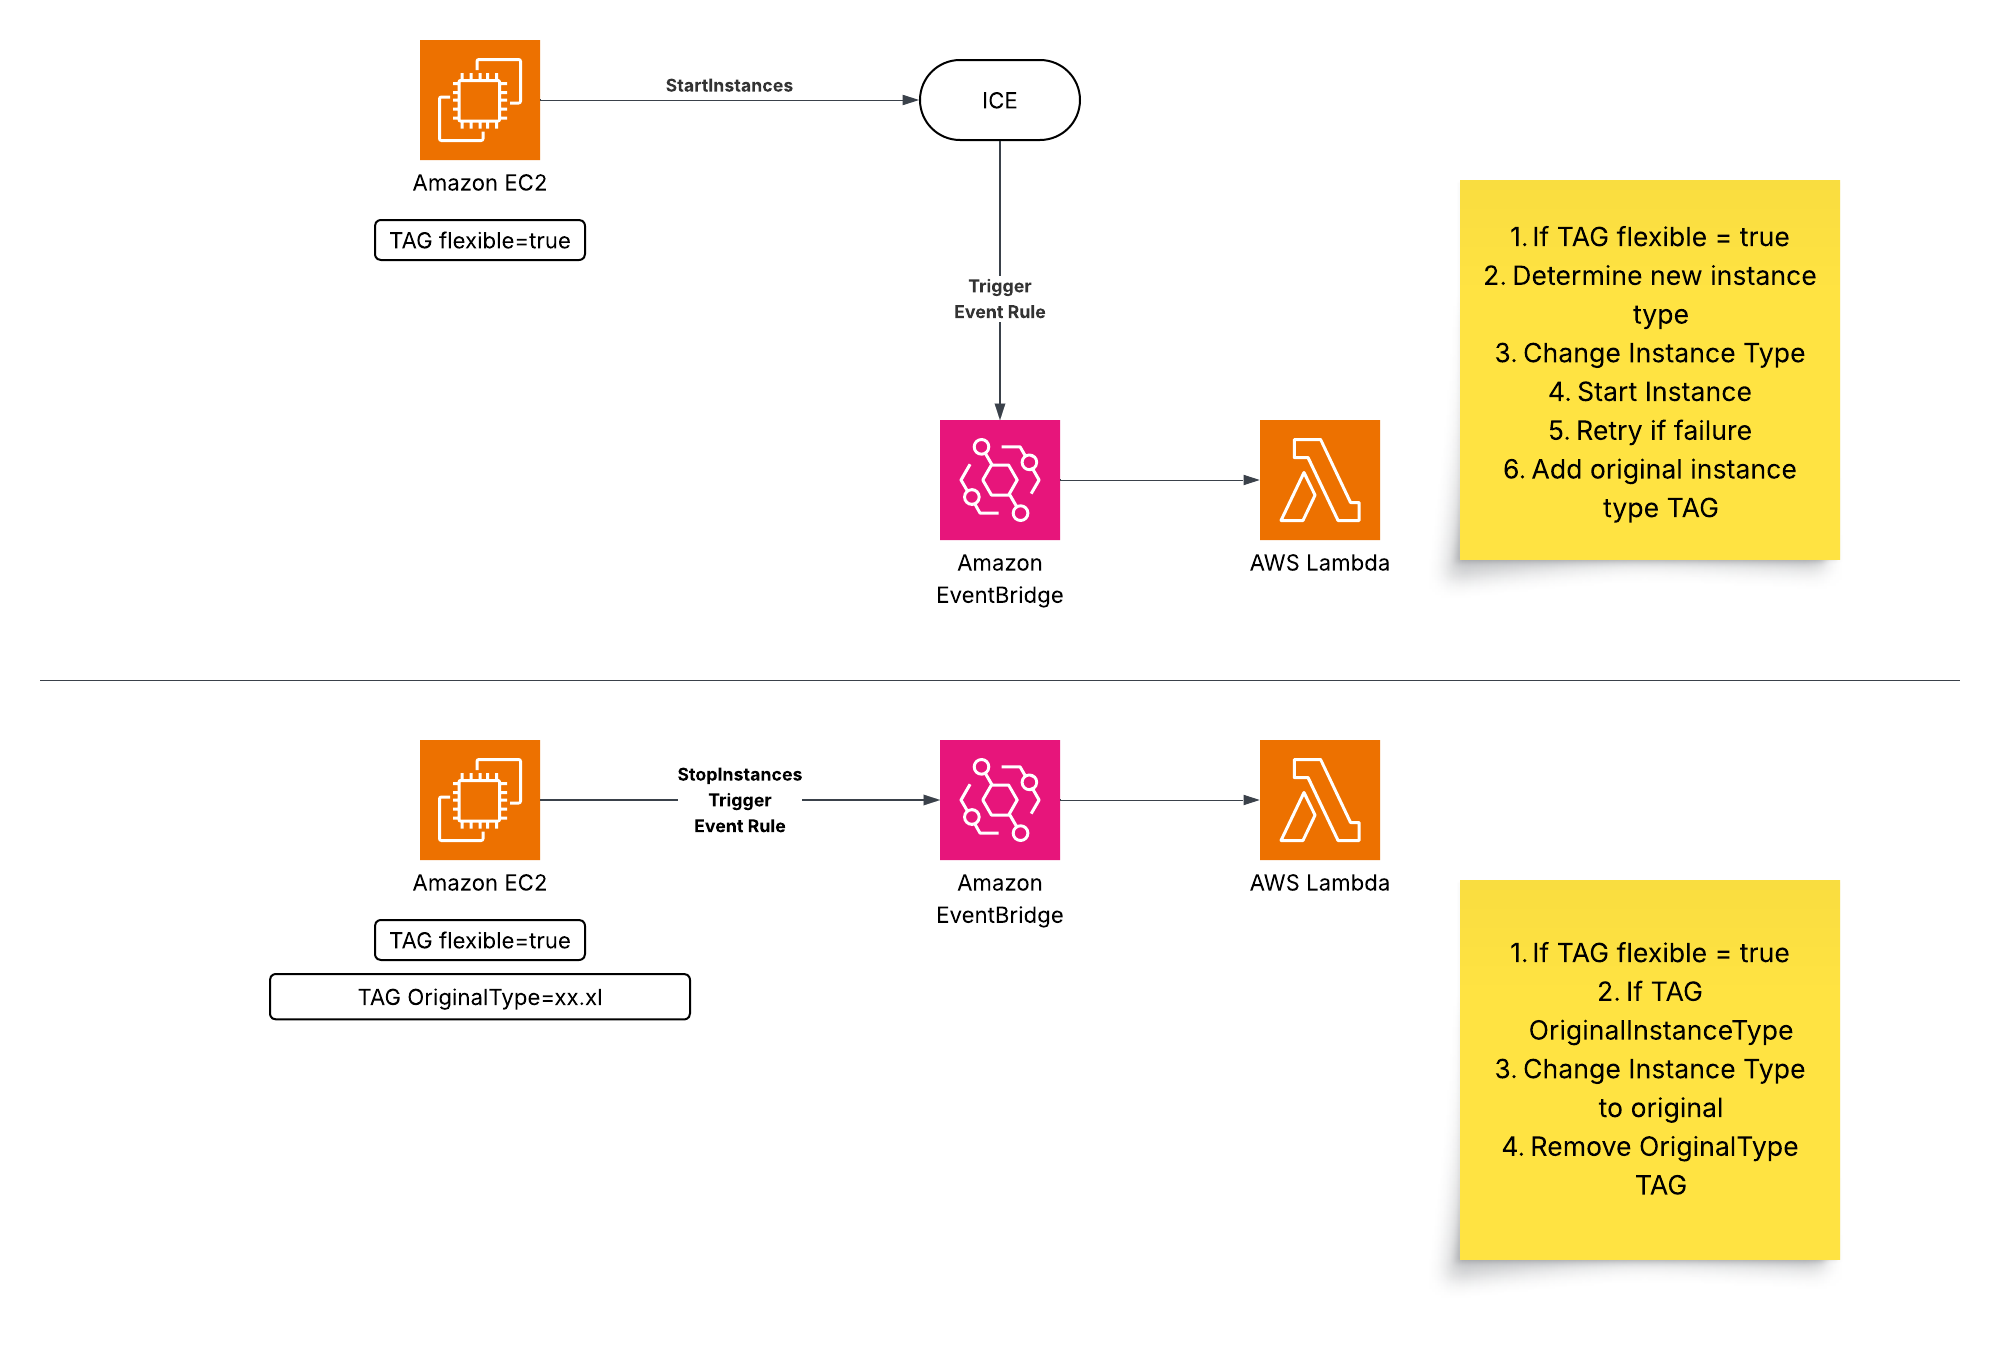
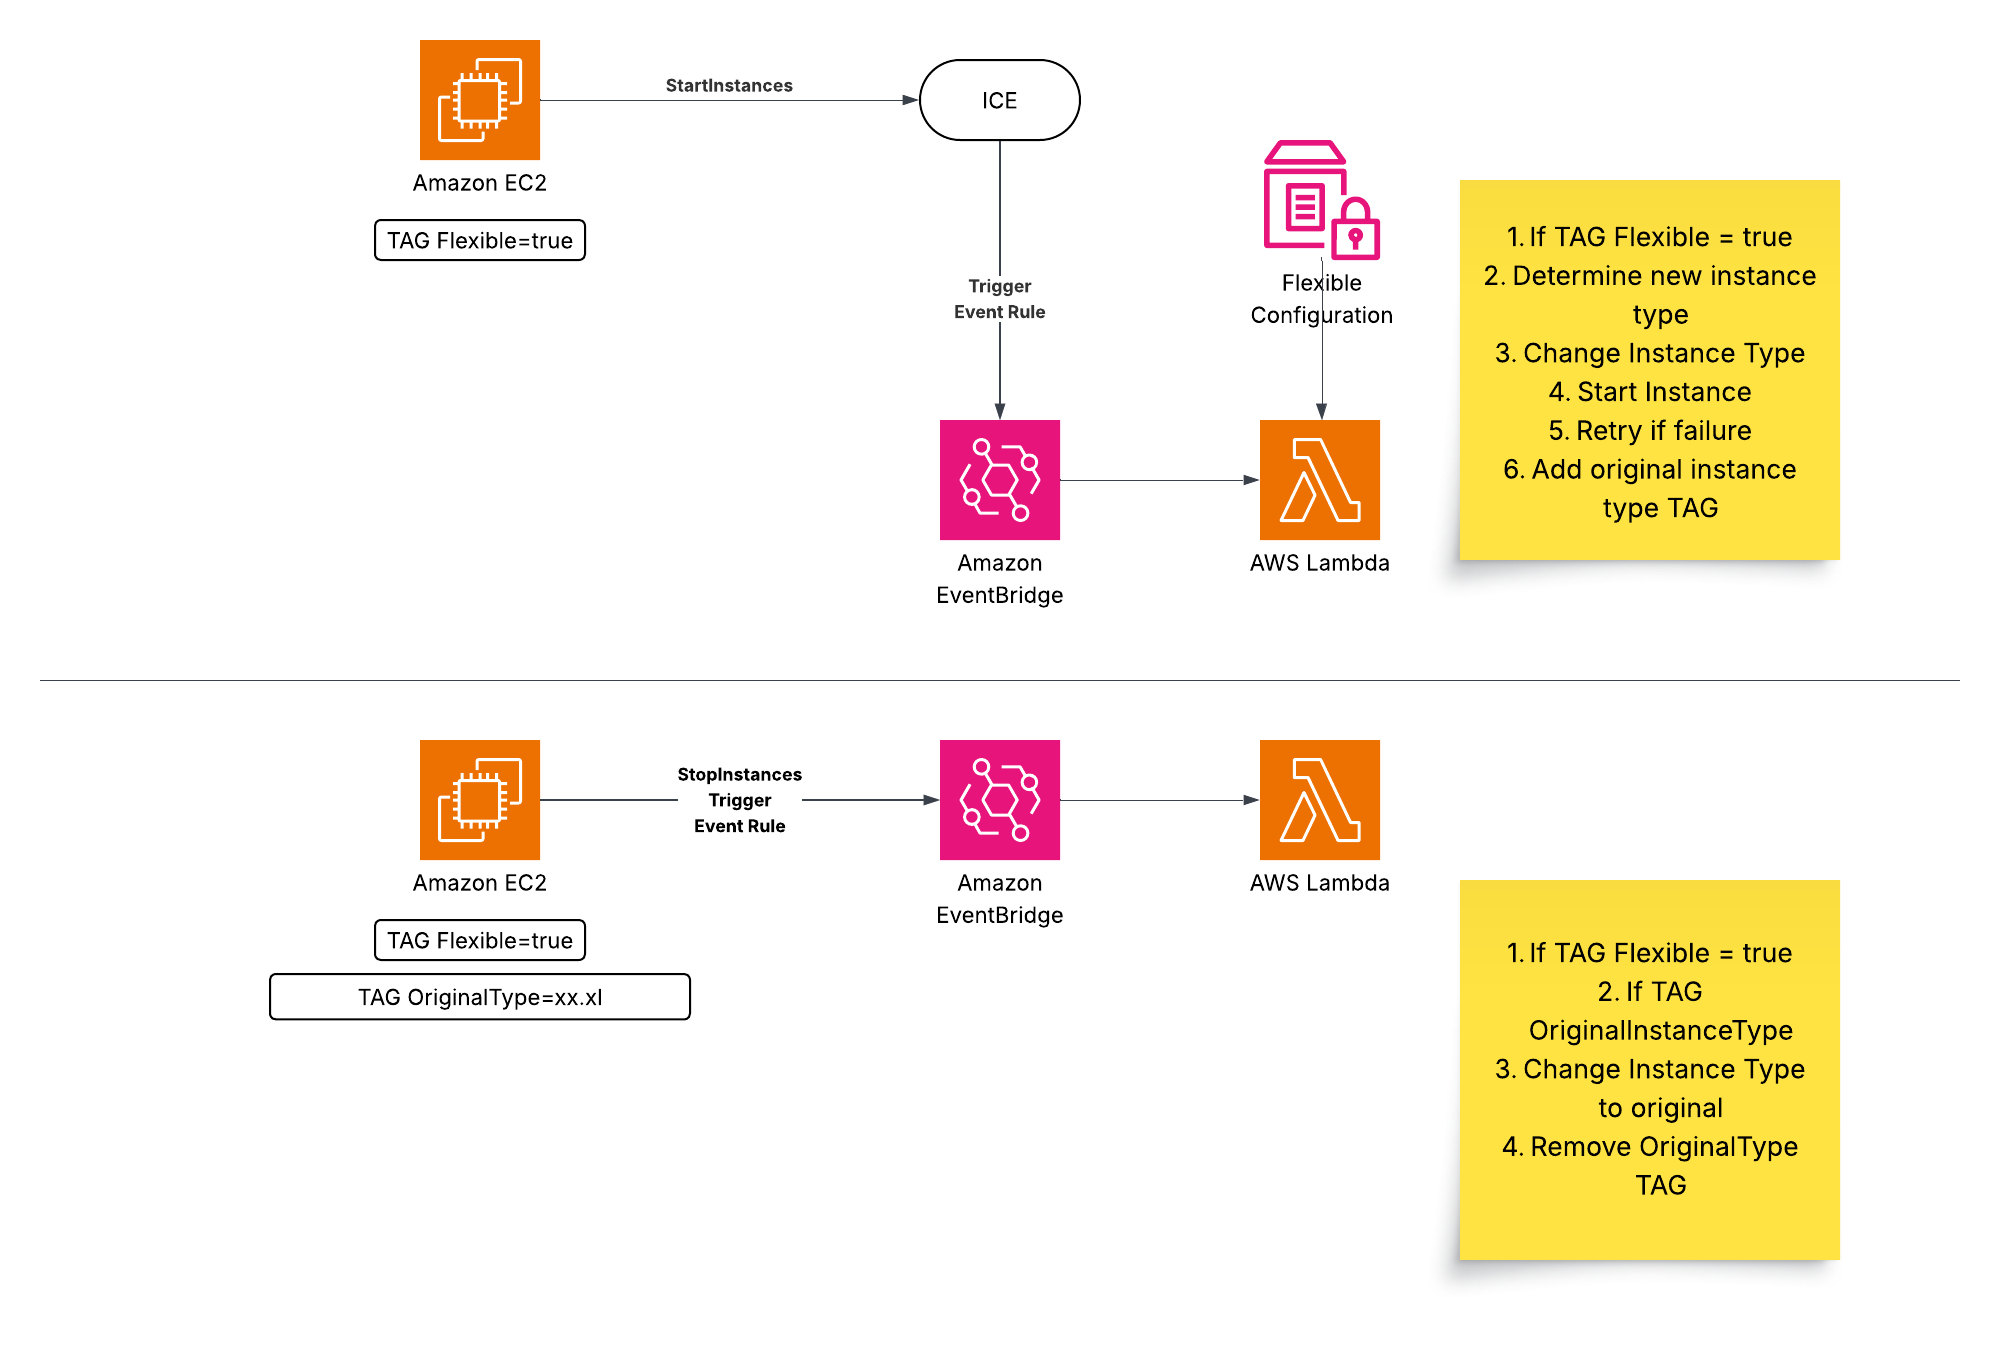
Add configuration in AWS SSM Parameter Store

diff --git a/lambda_start/ec2_instance_manager.py b/lambda_start/ec2_instance_manager.py
@@ -17,18 +17,18 @@ class EC2InstanceManager:
         self.ec2_client = boto3.client('ec2', region_name=region)
         self.ec2_resource = boto3.resource('ec2', region_name=region)
         self.pricing_client = boto3.client('pricing', region_name='us-east-1')  # Pricing API is only available in us-east-1
+        self.ssm_client = boto3.client('ssm', region_name=region)
         self._price_cache = {}  # In-memory cache for instance type prices
 
         with open(config_path) as json_data:
-            self.config = json.load(json_data)
-            self.current_config = self.config['default']
+            self.current_config = json.load(json_data)
     
     def get_instance_details(self, instance_id: str) -> Dict[str, Any]:
         """Get the current instance details including vCPU and Memory."""
         instance = self.ec2_resource.Instance(instance_id)
-        return self.get_instance_type_details(instance.instance_type)
+        return self.get_instance_type_details(instance.instance_type, instance.tags or [])
 
-    def get_instance_type_details(self, instance_type: str) -> Dict[str, Any]:
+    def get_instance_type_details(self, instance_type: str, tags: List[Dict[str, str]]) -> Dict[str, Any]:
         """Get instance type details including vCPU, Memory and on-demand price."""
         instance_type_info = self.ec2_client.describe_instance_types(
             InstanceTypes=[instance_type]
@@ -38,6 +38,7 @@ class EC2InstanceManager:
         
         return {
             'instance_type': instance_type,
+            'tags': tags,
             'instance_type_info': instance_type_info,
             'vcpu': instance_type_info['VCpuInfo']['DefaultVCpus'],
             'memory_mib': instance_type_info['MemoryInfo']['SizeInMiB'],
@@ -83,6 +84,51 @@ class EC2InstanceManager:
         except Exception as e:
             logger.error(f"Error getting price for {instance_type}: {e}")
             return float('inf')  # Return infinity if there's an error
+        
+    def get_flexible_configuration(self, parameter_arn):
+        """
+        Retrieve configuration from SSM Parameter Store with fallback logic:
+        1. Try using the provided parameter_arn if available
+        2. If that fails, try using '/flexible-instance-starter/default'
+        3. If both fail, use self.current_config
+        
+        Args:
+            parameter_arn: The ARN of the SSM parameter to retrieve
+            
+        Returns:
+            dict: The configuration dictionary
+        """
+        def try_get_parameter(param_name):
+            if not param_name:
+                return None
+                
+            try:
+                response = self.ssm_client.get_parameter(Name=param_name)
+                parameter_value = response['Parameter']['Value']
+                return json.loads(parameter_value)
+            except json.JSONDecodeError as e:
+                logger.error(f"Parameter {param_name} contains invalid JSON: {e}")
+                return None
+            except Exception as e:
+                logger.error(f"Error retrieving parameter {param_name}: {e}")
+                return None
+
+        # First try with provided parameter_arn
+        if parameter_arn:
+            config = try_get_parameter(parameter_arn)
+            if config:
+                return config
+            logger.info(f"Failed to get configuration from {parameter_arn}, trying default parameter")
+
+        # Then try with default parameter
+        default_param = '/flexible-instance-starter/default'
+        config = try_get_parameter(default_param)
+        if config:
+            return config
+        logger.info(f"Failed to get configuration from {default_param}, using current config")
+
+        # Finally fallback to current_config
+        return self.current_config
             
     def get_compatible_instance_types(self, instance_details: Dict[str, Any]) -> List[str]:
         """Get compatible instance types based on original instance properties and requirements, sorted by on-demand price."""
@@ -91,6 +137,7 @@ class EC2InstanceManager:
         memory_mib = instance_details['memory_mib']
         instance_type_info=instance_details['instance_type_info']
         original_instance_type=instance_details['instance_type']
+        tags=instance_details['tags']
 
         if original_instance_type.startswith('g') or original_instance_type.startswith('p') or original_instance_type.startswith('f') or original_instance_type.startswith('inf') or original_instance_type.startswith('trn'):
             return []
@@ -98,6 +145,10 @@ class EC2InstanceManager:
         original_architecture = instance_type_info['ProcessorInfo']['SupportedArchitectures'][0]
         is_burstable = original_instance_type.startswith('t')
         is_flex = '-flex' in original_instance_type
+
+        # Get flexible configuration ARN from tags if present
+        flexible_config_arn = next((tag['Value'] for tag in tags if tag['Key'] == 'FlexibleConfigurationArn'), None)
+        current_config = self.get_flexible_configuration(flexible_config_arn)
         
         # Calculate minimum memory with buffer (if any)
         memoryBufferPercentage = self.current_config.get('memoryBufferPercentage', 0)

diff --git a/lambda-stop/instance_stop.py b/lambda-stop/instance_stop.py
@@ -38,7 +38,7 @@ class EC2InstanceManager:
                 return False
             raise
 
-    def wait_for_instance_stopped(self, instance_id: str, max_attempts: int = 90) -> tuple[bool, str]:
+    def wait_for_instance_stopped(self, instance_id: str, max_attempts: int = 30) -> tuple[bool, str]:
         """
         Wait for an instance to reach the 'stopped' state.
         

diff --git a/README.md b/README.md
@@ -18,6 +18,7 @@ The solution uses:
 - Lambda function to handle the recovery logic
 - IAM roles and permissions for the recovery Lambda function
 - Instance type mapping for finding comparable instance types
+- AWS SSM Parameter Store to retrieve dynamic configuration for each instance
 - CloudWatch Events Rule to monitor CloudTrail events for StopInstances events
 - Lambda function to handle the revert logic upon instance stop event
 - IAM roles and permissions for the stop Lambda function
@@ -58,6 +59,9 @@ cdk deploy
    - Check if the instances are managed by this automation
    - Attempts to start each instance individually
    - If the start fails, looks up comparable instance types
+      - Uses the AWS SSM Parameter ARN stored in the EC2 instance tag `FlexibleConfigurationArn`
+      - If not present, uses the AWS SSM Parameter named `/flexible-instance-starter/default`
+      - If not present, uses as a fallback the local configuration json
    - Modifies the instance type and retries the start operation
    - Adds a Tag on the EC2 instance with the original instance type
    - Logs all actions and results
@@ -75,7 +79,10 @@ cdk deploy
 
 ## Configuration Parameters
 
-Parameters can be configured in `lambda/config.json`:
+Parameters can be configured in AWS SSM Parameter store.
+1. The solution looks up the AWS EC2 instance tag `FlexibleConfigurationArn`. If presents the solution reads the configuration stored in the AWS SSM parameter
+2. The solution reads the configuration stored in the AWS SSM parameter `/flexible-instance-starter/default`, if present.
+3. The solution uses as a fallback the local configuration json in `lambda_start/config.json`:
 
 ### `memoryBufferPercentage`
 Controls memory allocation flexibility during instance matching. By default, the tool selects instances with memory equal to or greater than the current allocation. This buffer allows selecting instances with slightly less memory, providing more flexibility while maintaining performance requirements.
@@ -83,6 +90,27 @@ Controls memory allocation flexibility during instance matching. By default, the
 - **Type:** Integer (percentage)
 - **Default:** `5`
 - **Example:** With 5% buffer, an 8GB instance could match a 7.6GB target instance
+
+### `localStorageBufferPercentage`
+Controls local NVME disk flexibility during instance matching. By default, the tool selects instances with NMVE disk equal to or greater than the current allocation. This buffer allows selecting instances with slightly less NVME disk, providing more flexibility while maintaing performance requirements.
+
+- **Type:** Integer (percentage)
+- **Default:** `5`
+- **Example:** With 5% buffer, an 1920GB instance store could match a 1824GB instance store target instance
+
+### `maxCpuMultiplier`
+Controls the vCPU multiplier used during instance matching.
+
+- **Type:** Integer (percentage)
+- **Default:** `4`
+- **Example:** With 4x multiplier, an instance with 4 vCPU could match an instance up to 16 vCPU
+
+### `maxMemoryMultiplier`
+Controls the Memory multiplier used during instance matching.
+
+- **Type:** Integer (percentage)
+- **Default:** `2`
+- **Example:** With 2x multiplier, an instance with 16GB of memory could match an instance up to 32GB of memory
 
 ### `cpuManufacturers`
 Specifies allowed CPU manufacturers for target instances. Instances with CPUs from unlisted manufacturers will be excluded from selection.
@@ -121,16 +149,20 @@ Controls inclusion of bare metal instance types in the selection process.
 ```json
 {
     "version": 1,
-    "default": {
-        "memoryBufferPercentage": 10,
-        "cpuManufacturers": ["intel", "amd"],
-        "excludedInstanceTypes": ["t2.*", "t3.*", "m4*"],
-        "bareMetal": "excluded"
-    }
+    
+    "memoryBufferPercentage": 5,
+    "localStorageBufferPercentage": 5,
+
+    "maxCpuMultiplier": 4,
+    "maxMemoryMultiplier": 2,
+
+    "cpuManufacturers": ["intel", "amazon-web-services"],
+    "excludedInstanceTypes": ["p*.*", "g*.*", "inf*.*", "trn*.*", "f*.*"],
+    "bareMetal": "included"
 }
 ```
 
-**Note:** Configuration changes require redeploying the Lambda function to take effect.
+**Note:** Local configuration changes require redeploying the Lambda function to take effect.
 
 
 ## Monitoring
